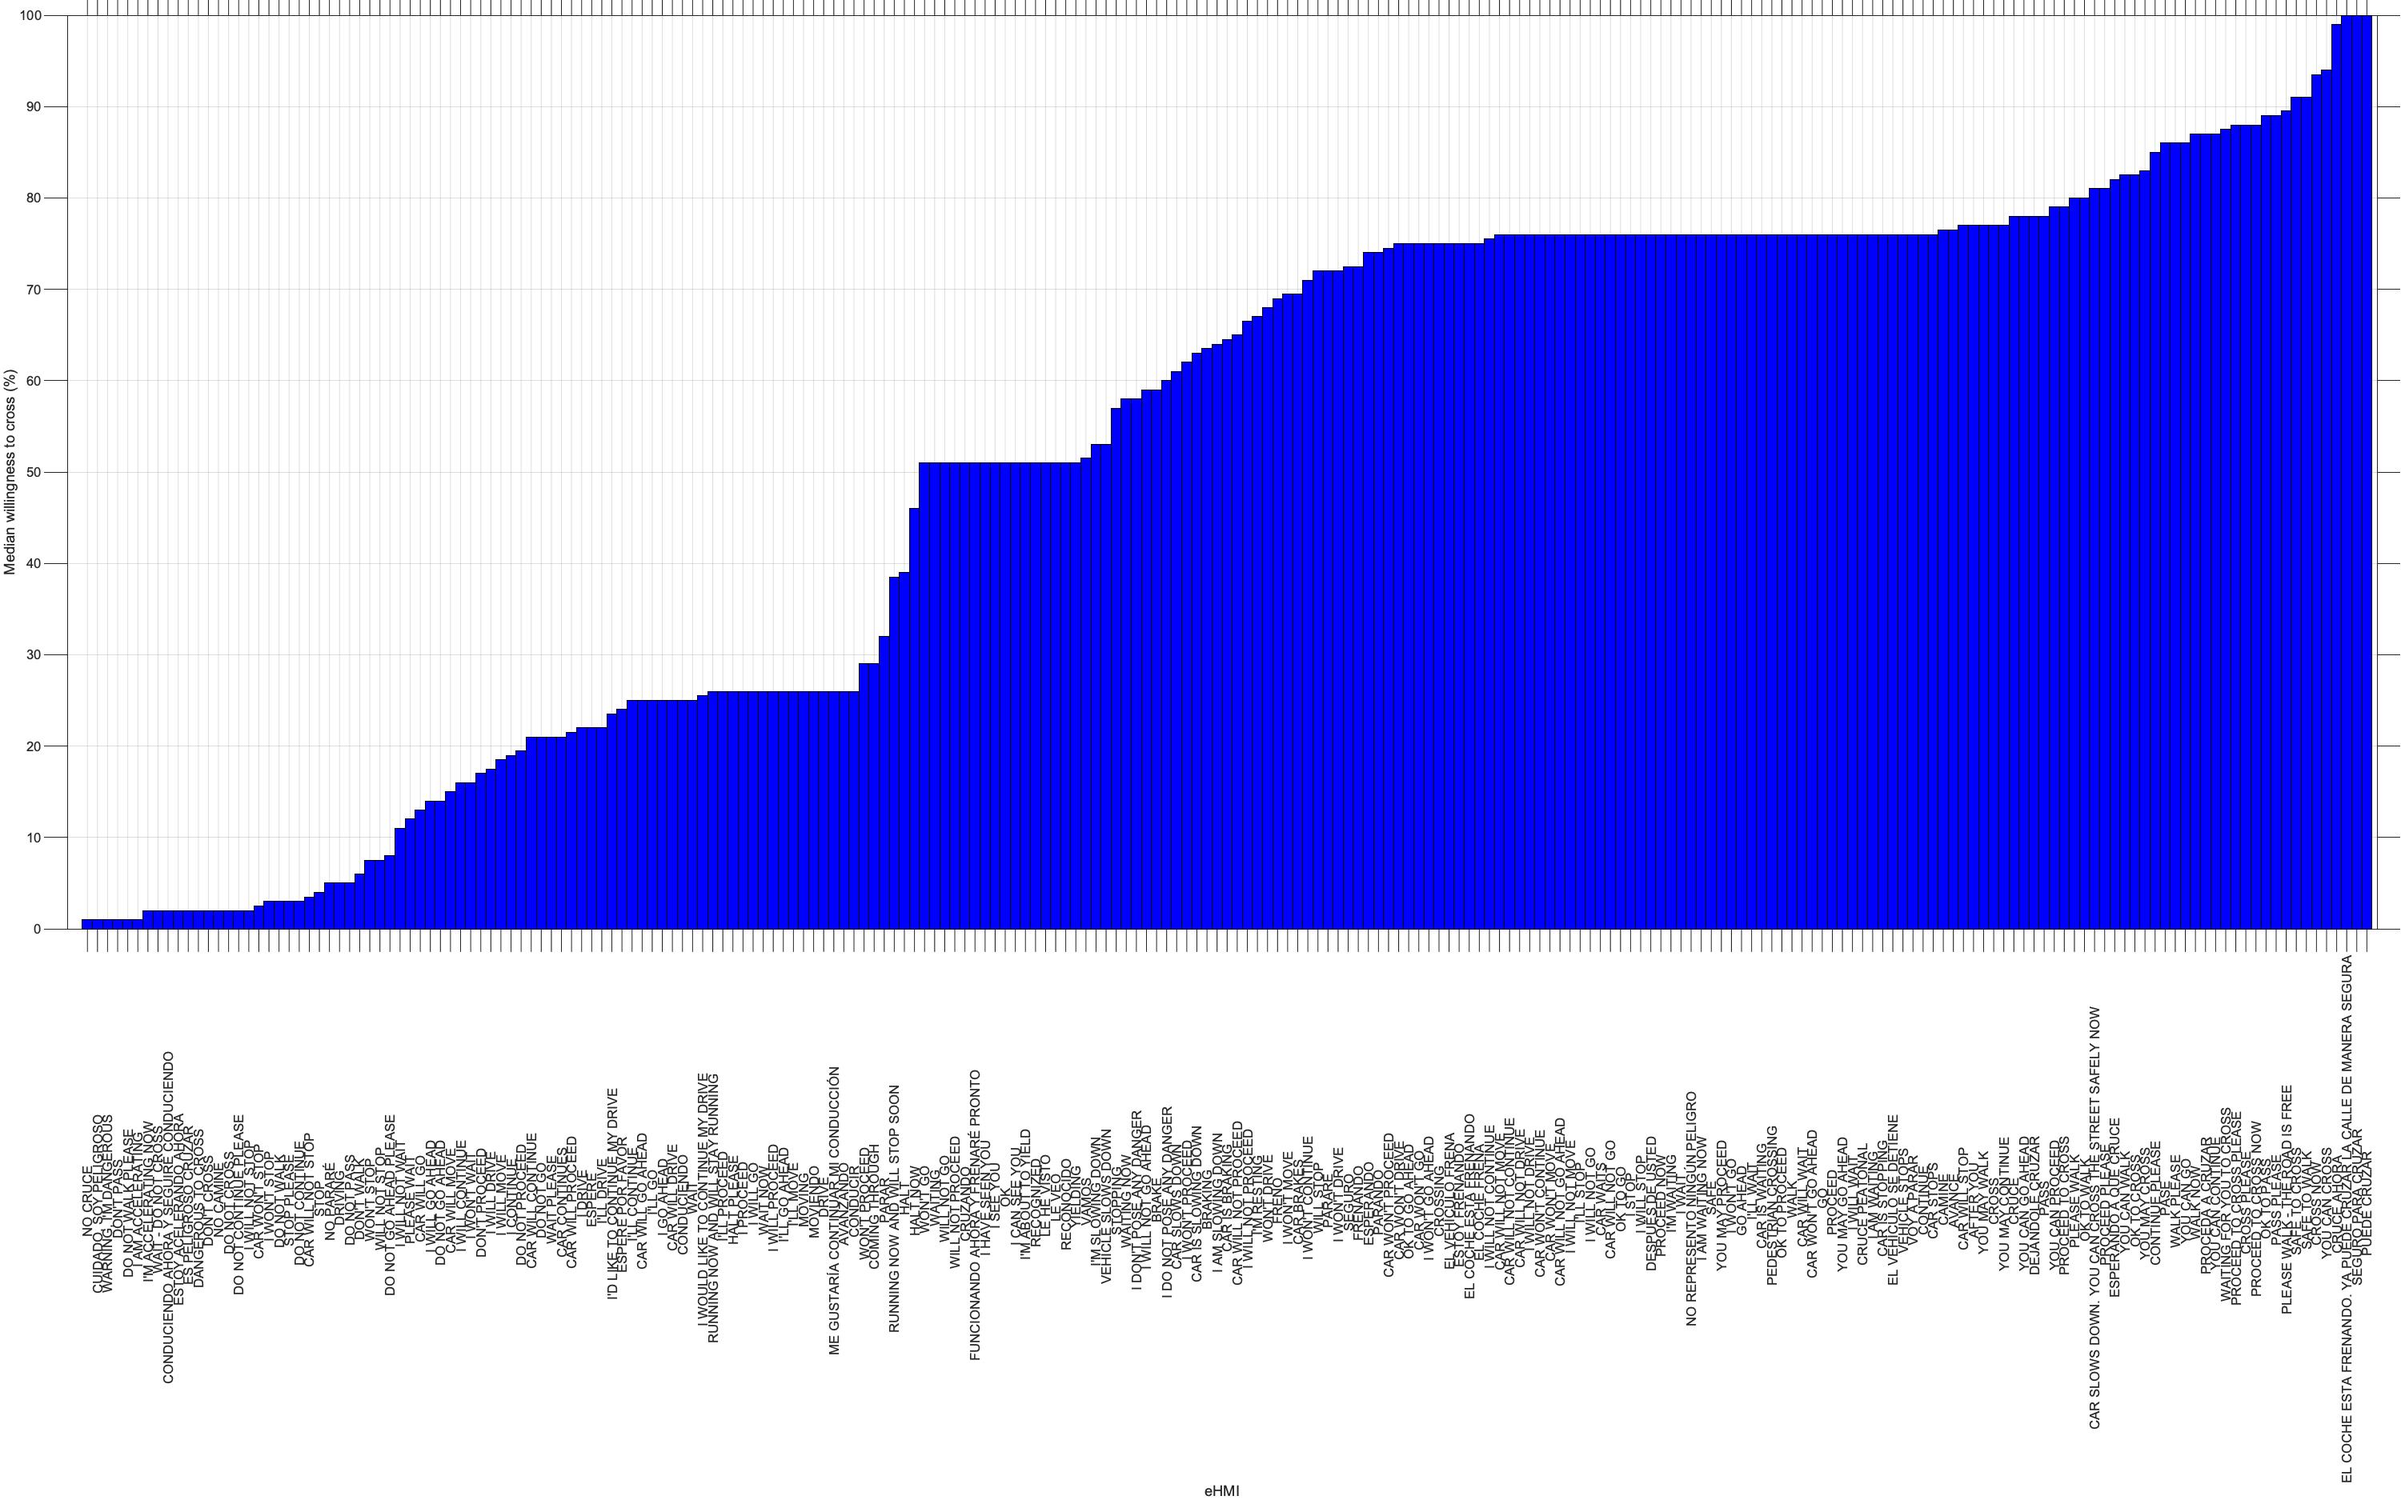
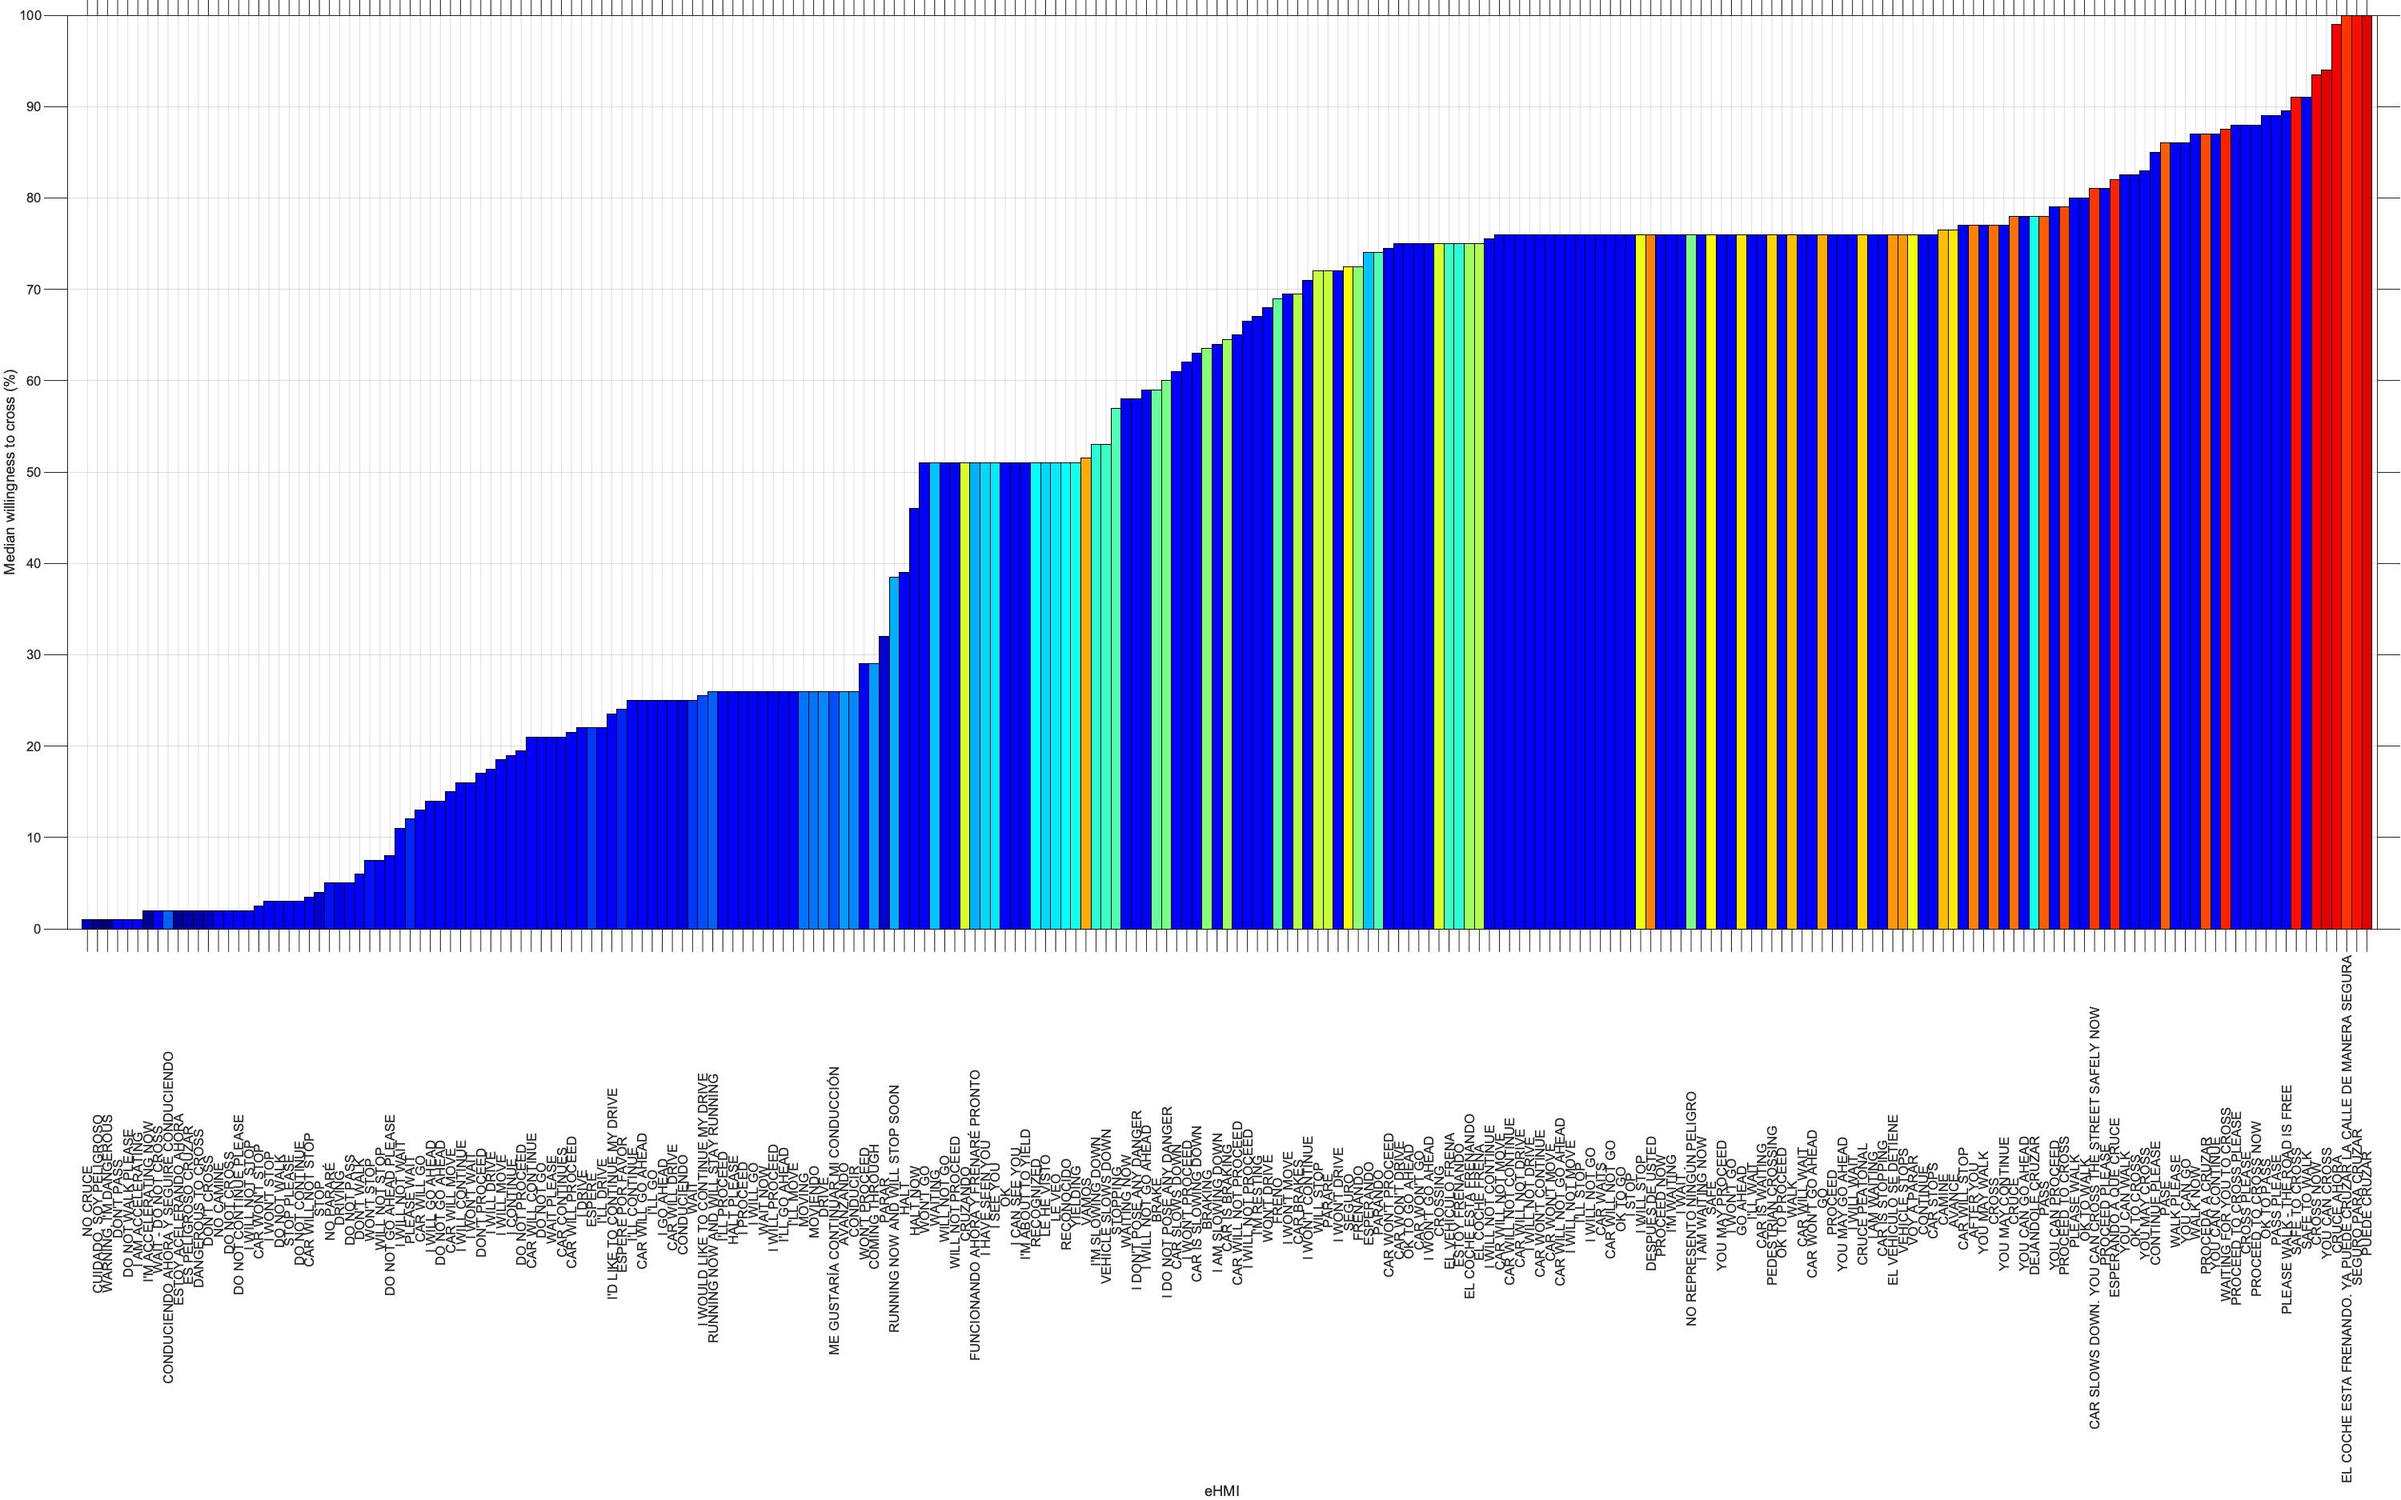
Colour assigned to each pair

diff --git a/textehmi/analysis/analysis.m b/textehmi/analysis/analysis.m
@@ -86,8 +86,32 @@ figure;
 hold on;
 grid on;
 box on;
-for i=1:N_STIMULI % loop over colors
-    bar(i,1+RPoMedSorted(i),'barwidth',1,'facecolor','b','edgecolor','k');
+for i=1:N_STIMULI % loop over eHMIs
+    bar_obj(i) = bar(i,1+RPoMedSorted(i),'barwidth',1,'facecolor','b','edgecolor','k');
+end
+% assign colours to pairs of EN and ES eHMIs
+cmap = colormap(jet); % choose colormap
+counter_colour = 1;  % counter for assigned colours
+for i=1:N_STIMULI % loop over eHMIs
+    % get index in cell array
+    ehmi = strtrim(eHMI_text_MedSorted(i,:));
+    % check if there is Spanish translation
+    if find(ismember(mapping{:,10}, ehmi))
+        index_es = find(ismember(mapping{:,10}, ehmi));
+        ehmi_es = char(mapping{index_es,2});
+        % find index of ES eHMI
+        for j=1:N_STIMULI % loop over eHMIs
+            ehmi_tick_trimmed = strtrim(eHMI_text_MedSorted(j,:));
+            if strcmp(ehmi_es, ehmi_tick_trimmed)
+                i_es = j;
+                break;
+            end
+        end
+        % set colour
+        set(bar_obj(i),'FaceColor', cmap(counter_colour,:));
+        set(bar_obj(i_es),'FaceColor', cmap(counter_colour,:));
+        counter_colour = counter_colour + 5;
+    end
 end
 set(gca,'xlim',[-1 N_STIMULI+1],'tickdir','out','ylim',[0 100],'xtick',[1:1:N_STIMULI])
 set(gca,'xticklabel',eHMI_text_MedSorted)
@@ -95,11 +119,7 @@ xlabel('eHMI');
 ylabel('Median willingness to cross (%)')
 h=findobj('FontName','Helvetica');
 set(h,'FontSize',8,'Fontname','Arial')
-% display top and low
-% disp('Top 5 highest - median willingness to cross')
-% disp(round(RPoMedSorted(end-4:end)))
-% disp('Top 5 lowest - median willingness to cross')
-% disp(round(RPoMedSorted(1:4)))
+% set
 set(gca,'LooseInset',[0.01 0.01 0.01 0.01])
 % maximise and export as eps and jpg (for readme)
 export_figure(gcf, [config.path_output filesep 'median-cross'], 'epsc')
@@ -123,8 +143,32 @@ figure;
 hold on;
 grid on;
 box on;
-for i=1:N_STIMULI % loop over colors
-    bar(i,1+RPoMeanSorted(i),'barwidth',1,'facecolor','b','edgecolor','k');
+for i=1:N_STIMULI % loop over eHMIs
+    bar_obj(i) = bar(i,1+RPoMeanSorted(i),'barwidth',1,'facecolor','b','edgecolor','k');
+end
+% assign colours to pairs of EN and ES eHMIs
+cmap = colormap(jet); % choose colormap
+counter_colour = 1;  % counter for assigned colours
+for i=1:N_STIMULI % loop over eHMIs
+    % get index in cell array
+    ehmi = strtrim(eHMI_text_MedSorted(i,:));
+    % check if there is Spanish translation
+    if find(ismember(mapping{:,10}, ehmi))
+        index_es = find(ismember(mapping{:,10}, ehmi));
+        ehmi_es = char(mapping{index_es,2});
+        % find index of ES eHMI
+        for j=1:N_STIMULI % loop over eHMIs
+            ehmi_tick_trimmed = strtrim(eHMI_text_MedSorted(j,:));
+            if strcmp(ehmi_es, ehmi_tick_trimmed)
+                i_es = j;
+                break;
+            end
+        end
+        % set colour
+        set(bar_obj(i),'FaceColor', cmap(counter_colour,:));
+        set(bar_obj(i_es),'FaceColor', cmap(counter_colour,:));
+        counter_colour = counter_colour + 5;
+    end
 end
 set(gca,'xlim',[-1 N_STIMULI+1],'tickdir','out','ylim',[0 100],'xtick',[1:1:N_STIMULI])
 set(gca,'xticklabel',eHMI_text_MeanSorted)
@@ -149,8 +193,32 @@ eHMI_text_STDSorted=char(eHMI_text{bs,:});
 figure;
 hold on;
 box on;
-for i=1:N_STIMULI % loop over colors
-    bar(i,RPoSTDSorted(i),'barwidth',1,'facecolor','b','edgecolor','k');
+for i=1:N_STIMULI % loop over eHMIs
+    bar_obj(i) = bar(i,RPoSTDSorted(i),'barwidth',1,'facecolor','b','edgecolor','k');
+end
+% assign colours to pairs of EN and ES eHMIs
+cmap = colormap(jet); % choose colormap
+counter_colour = 1;  % counter for assigned colours
+for i=1:N_STIMULI % loop over eHMIs
+    % get index in cell array
+    ehmi = strtrim(eHMI_text_MedSorted(i,:));
+    % check if there is Spanish translation
+    if find(ismember(mapping{:,10}, ehmi))
+        index_es = find(ismember(mapping{:,10}, ehmi));
+        ehmi_es = char(mapping{index_es,2});
+        % find index of ES eHMI
+        for j=1:N_STIMULI % loop over eHMIs
+            ehmi_tick_trimmed = strtrim(eHMI_text_MedSorted(j,:));
+            if strcmp(ehmi_es, ehmi_tick_trimmed)
+                i_es = j;
+                break;
+            end
+        end
+        % set colour
+        set(bar_obj(i),'FaceColor', cmap(counter_colour,:));
+        set(bar_obj(i_es),'FaceColor', cmap(counter_colour,:));
+        counter_colour = counter_colour + 5;
+    end
 end
 set(gca,'xlim',[-1 N_STIMULI+1],'tickdir','out','ylim',[0 40],'xtick',[1:1:N_STIMULI])
 set(gca,'xticklabel',eHMI_text_STDSorted)
